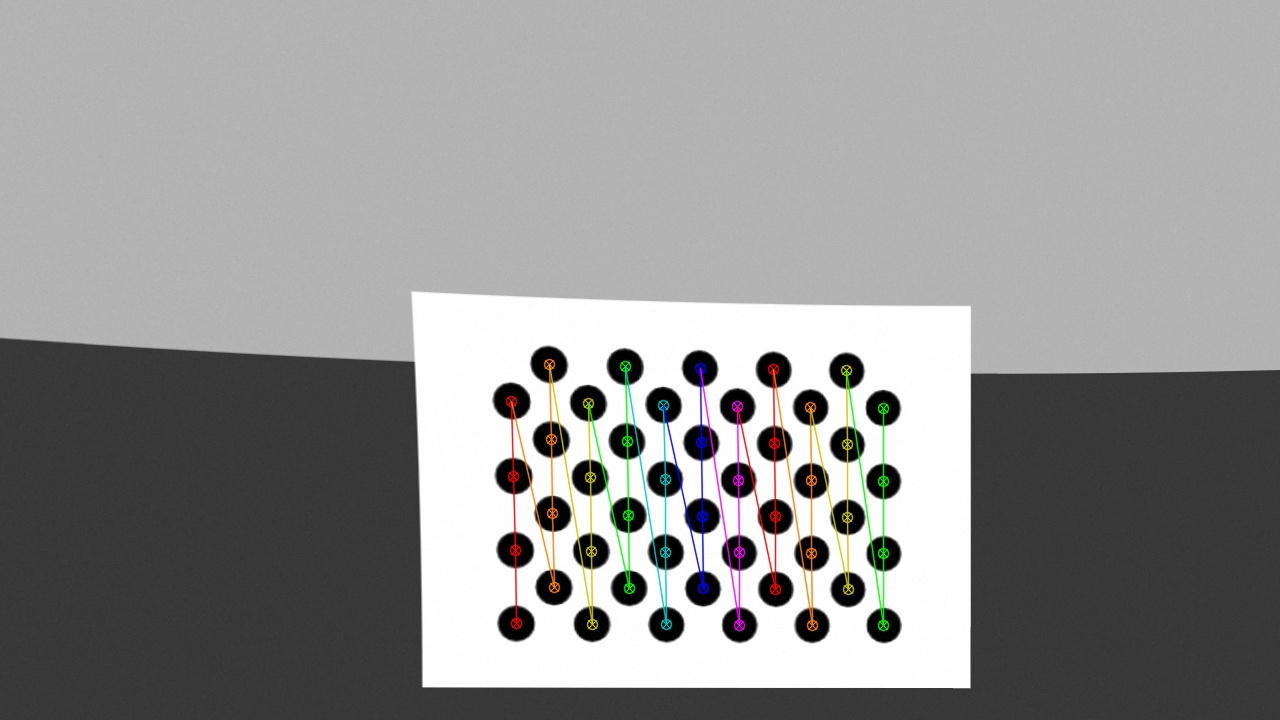
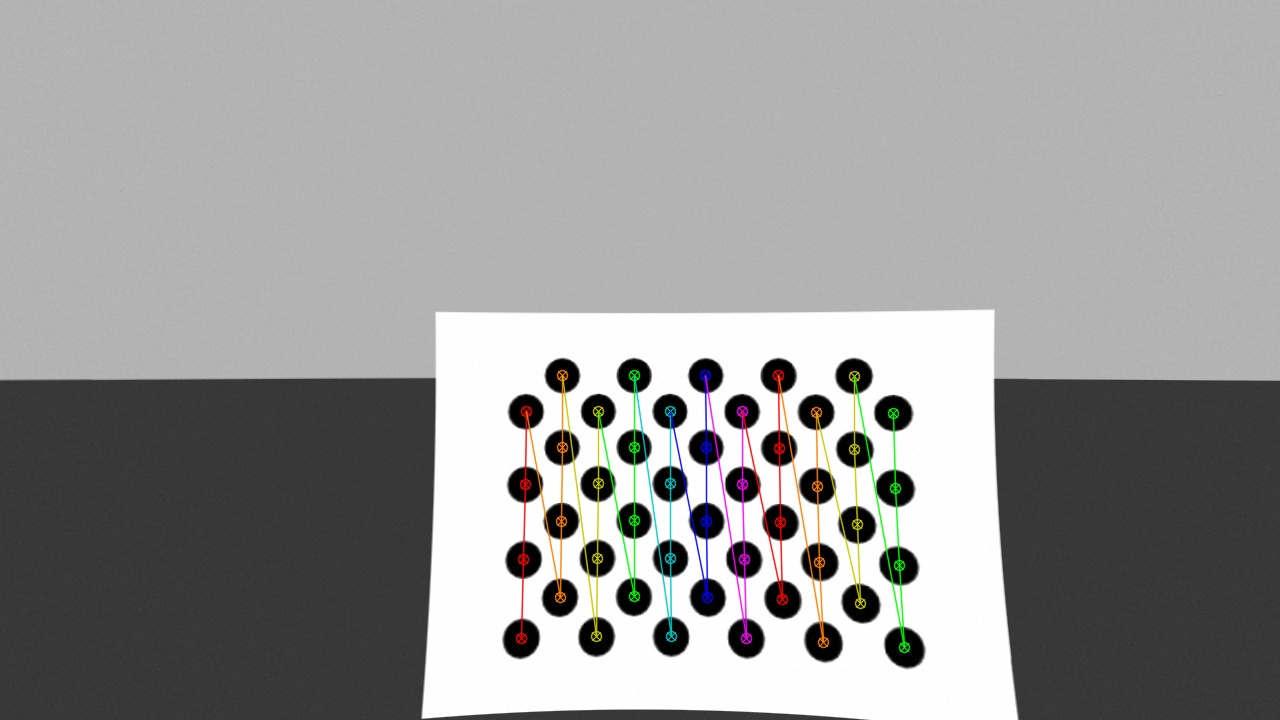
finish_work

Changed region(s): [[0.0, 0.3972, 1.0, 1.0]]

diff --git a/src/calibrate_cctag.cpp b/src/calibrate_cctag.cpp
@@ -78,9 +78,9 @@ public:
 
     // reads data from a directory
     static std::shared_ptr<Dataset> read(const std::string& dataset_dir, const std::string& ros_camera_params_file, bool visualize) {
-        int PATTERN_ROWS = 3;
+     int PATTERN_ROWS = 3;
         int PATTERN_COLS = 4;
-        double L = 0.065;
+        double L = 0.13;   
         std::shared_ptr<Dataset> dataset(new Dataset());
         dataset->pattern_3d.resize(3, PATTERN_ROWS * PATTERN_COLS);
         for(int j=0; j<PATTERN_COLS; j++) {
@@ -184,7 +184,7 @@ public:
             //     std::cout<< grid_2d(0, i) << " "<<grid_2d(1, i)<<std::endl;
             // }
 
-            //std::cout<<std::endl;
+            std::cout<<"load data"<<std::endl;
             dataset->images.push_back(undistorted);
             dataset->handposes.push_back(handpose);
             dataset->pattern_2ds.push_back(grid_2d);
@@ -338,14 +338,20 @@ int main(int argc, char** argv) {
 
 
     Eigen::Isometry3d init_guess = Eigen::Isometry3d::Identity();
+    init_guess(0,0)=0;
+    init_guess(1,0)=-1;
+    init_guess(1,1)=0;
+    init_guess(2,2)=0;
+    init_guess(2,1)=-1;
+    init_guess(0,2)=1;
     init_guess(0,3)=0.05;
     init_guess(2,3)=0.2;
     std::cout<<"init"<<std::endl;
     std::cout<<init_guess.matrix()<<std::endl;
     if(vm.count("use_init_guess")) {
         std::cout<<"USE"<<std::endl;
-        //hand2eye_graph = hand2eye_visp;
-        hand2eye_graph = init_guess;
+        hand2eye_graph = hand2eye_visp;
+        //hand2eye_graph = init_guess;
         object2world_graph = object2world_visp;
     }
 

diff --git a/src/calibrate.cpp b/src/calibrate.cpp
@@ -71,7 +71,7 @@ public:
     static std::shared_ptr<Dataset> read(const std::string& dataset_dir, const std::string& ros_camera_params_file, bool visualize) {
         int PATTERN_ROWS = 4;
         int PATTERN_COLS = 11;
-        double L = 0.04;
+        double L = 0.08;
         std::shared_ptr<Dataset> dataset(new Dataset());
         dataset->pattern_3d.resize(3, PATTERN_ROWS * PATTERN_COLS);
         for(int j=0; j<PATTERN_COLS; j++) {
@@ -309,13 +309,19 @@ int main(int argc, char** argv) {
     Eigen::Isometry3d object2world_graph = Eigen::Isometry3d::Identity();
 
     Eigen::Isometry3d init_guess = Eigen::Isometry3d::Identity();
+    init_guess(0,0)=0;
+    init_guess(1,0)=-1;
+    init_guess(1,1)=0;
+    init_guess(2,2)=0;
+    init_guess(2,1)=-1;
+    init_guess(0,2)=1;
     init_guess(0,3)=0.05;
     init_guess(2,3)=0.2;
     std::cout<<"init"<<std::endl;
     std::cout<<init_guess.matrix()<<std::endl;
     if(vm.count("use_init_guess")) {
-        //hand2eye_graph = hand2eye_visp;
-        hand2eye_graph = init_guess;
+        hand2eye_graph = hand2eye_visp;
+        //hand2eye_graph = init_guess;
         object2world_graph = object2world_visp;
     }
 

diff --git a/src/cctag.cpp b/src/cctag.cpp
@@ -38,7 +38,7 @@ void drawMarkers(const boost::ptr_list<ICCTag>& markers, cv::Mat& image, ofstrea
         const int fontSize = 3;
         if(marker.getStatus() == status::id_reliable)
         {   
-
+            std::cout<<center<<std::endl;
             const cv::Scalar color = cv::Scalar(0, 255, 0, 255);
             const auto rescaledOuterEllipse = marker.rescaledOuterEllipse();
 
@@ -80,7 +80,7 @@ void test_detect_one_image()
     string src_path = "/home/liuxiao/Downloads/";
     string src_name = "temp.svg";
 
-    cv::Mat src = cv::imread("/home/liuxiao/test/st_handeye_eval/cctag_test/005_image.jpg");
+    cv::Mat src = cv::imread("/home/liuxiao/catkin_ws/src/HLRobot_gazebo/hlrobot_gazebo/models/calibration_plane1/materials/textures/1.png");
     std::cout<<"here";
     cv::Mat graySrc;
     cv::cvtColor(src, graySrc, CV_BGR2GRAY);
